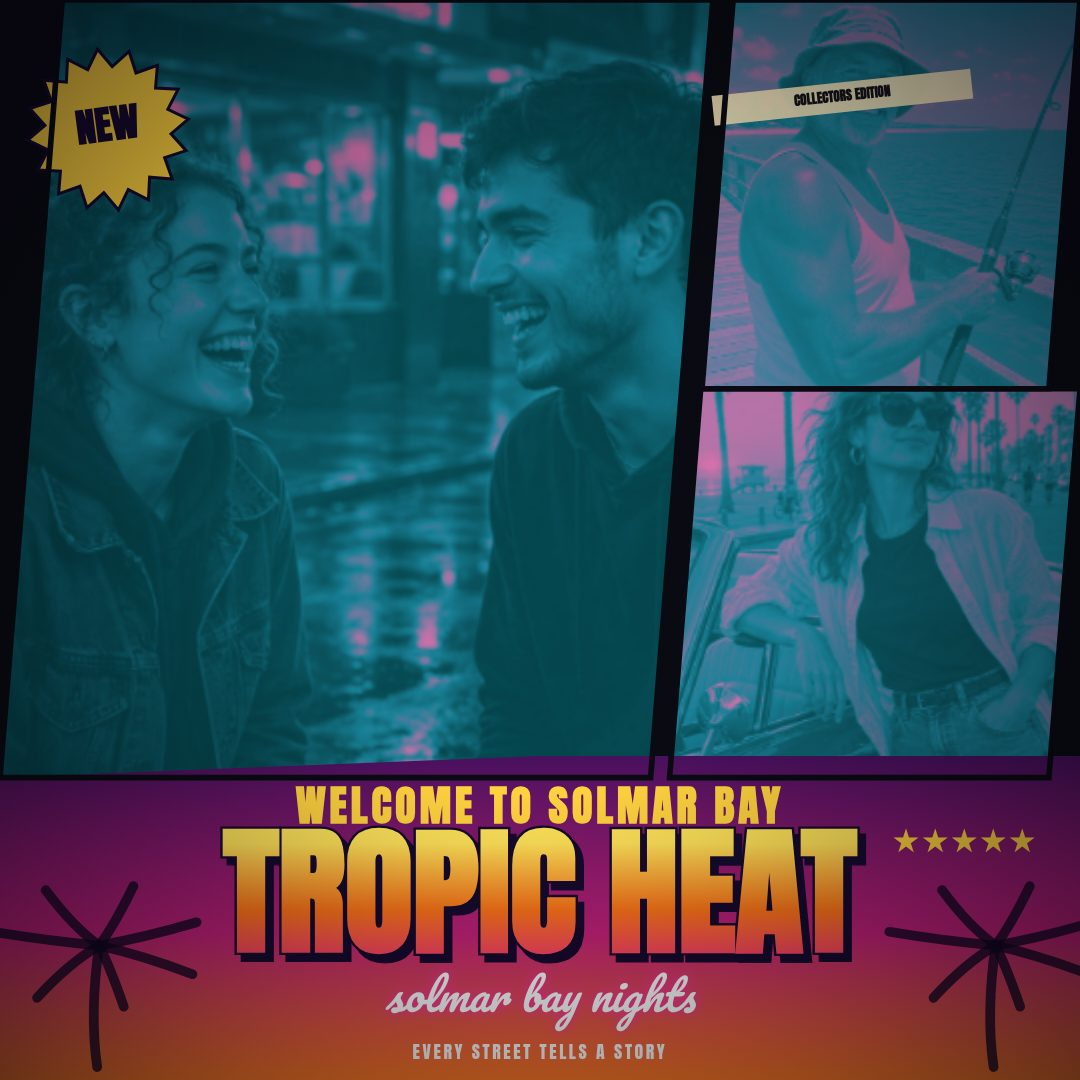
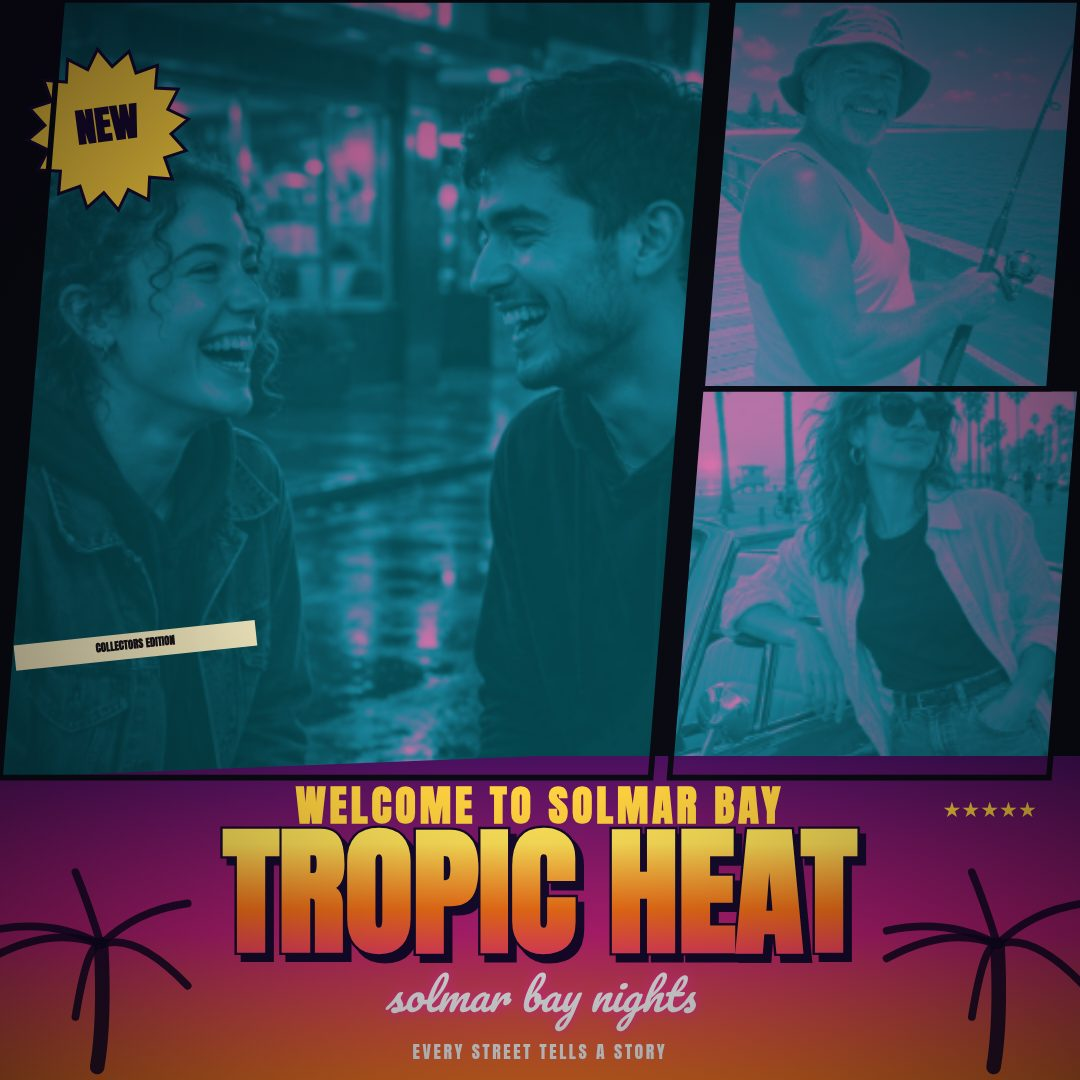
v1.1: README badges, font NOTICE, cover polish (face crops, palms, stickers)

diff --git a/app/src/render.js b/app/src/render.js
@@ -6,7 +6,7 @@ const PALETTES = {
 };
 const rects = {
   keyart:[[0,0,.58,.62],[.58,0,.42,.31],[.58,.31,.42,.31],[0,.62,.193,.38],[.193,.62,.193,.38],[.386,.62,.194,.38],[.58,.62,.42,.38]],
-  band:[[0,0,.62,.68],[.62,0,.19,.68],[.81,0,.19,.68],[0,.68,1,.32]],
+  band:[[0,0,.52,.68],[.52,0,.24,.68],[.76,0,.24,.68],[0,.68,1,.32]],
   slash:[[0,0,.66,.72],[.65,0,.35,.36],[.62,.36,.38,.36],[0,.72,1,.28]],
   grid6:[[0,0,1/3,.5],[1/3,0,1/3,.5],[2/3,0,1/3,.5],[0,.5,1/3,.5],[1/3,.5,1/3,.5],[2/3,.5,1/3,.5]],
   trio:[[0,0,1/3,1],[1/3,0,1/3,1],[2/3,0,1/3,1]], full:[[0,0,1,1]],
@@ -37,7 +37,8 @@ function drawPhoto(ctx,W,H,r,panel,index,state,layout) {
   const img=photoSource(panel.photo||PHOTOS[index%4]);
   if(img.complete&&img.naturalWidth) {
     const scale=Math.max(w/img.width,h/img.height)*(panel.zoom||1), dw=img.width*scale, dh=img.height*scale;
-    const cx=x+(w-dw)/2+(panel.x||0)*w, cy=y+(h-dh)/2+(panel.y||0)*h;
+    const fx=clamp(panel.fx??.5,0,1), fy=clamp(panel.fy??.5,0,1);
+    const cx=x+(w-dw)*fx+(panel.x||0)*w, cy=y+(h-dh)*fy+(panel.y||0)*h;
     const quality=.5,off=document.createElement('canvas');off.width=Math.max(1,Math.round(w*quality));off.height=Math.max(1,Math.round(h*quality));
     const oc=off.getContext('2d',{willReadFrequently:true});oc.drawImage(img,(cx-x)*quality,(cy-y)*quality,dw*quality,dh*quality);
     try {
@@ -59,9 +60,13 @@ function drawPhoto(ctx,W,H,r,panel,index,state,layout) {
   ctx.fillStyle=tint;ctx.fillRect(x,y,w,h);ctx.restore();
 }
 function palm(ctx,x,y,s) {
-  ctx.save();ctx.translate(x,y);ctx.scale(s,s);ctx.strokeStyle='rgba(17,8,35,.8)';ctx.lineWidth=10;ctx.lineCap='round';
-  ctx.beginPath();ctx.moveTo(0,0);ctx.quadraticCurveTo(-8,-55,2,-125);ctx.stroke();
-  for(let i=0;i<7;i++){const a=-Math.PI*.93+i*Math.PI*.27;ctx.beginPath();ctx.moveTo(2,-125);ctx.quadraticCurveTo(Math.cos(a)*52,-125+Math.sin(a)*22,Math.cos(a)*110,-125+Math.sin(a)*65);ctx.stroke();}
+  ctx.save();ctx.translate(x,y);ctx.scale(s,s);ctx.strokeStyle='rgba(17,8,35,.88)';ctx.lineCap='round';ctx.lineJoin='round';
+  ctx.lineWidth=15;ctx.beginPath();ctx.moveTo(0,0);ctx.quadraticCurveTo(8,-48,4,-126);ctx.stroke();
+  ctx.lineWidth=8;
+  for(let i=0;i<6;i++){
+    const a=-Math.PI*.94+i*Math.PI*.376, ex=Math.cos(a)*112, ey=-126+Math.sin(a)*76;
+    ctx.beginPath();ctx.moveTo(4,-126);ctx.quadraticCurveTo(Math.cos(a)*48,-150+Math.sin(a)*20,ex,ey);ctx.stroke();
+  }
   ctx.restore();
 }
 function titleBlock(ctx,x,y,w,h,state) {
@@ -69,7 +74,8 @@ function titleBlock(ctx,x,y,w,h,state) {
   ctx.fillStyle=g;ctx.fillRect(x,y,w,h);palm(ctx,x+w*.09,y+h*.96,Math.min(w,h)*.003);palm(ctx,x+w*.92,y+h*.96,Math.min(w,h)*.003);
   const pad=w*.08, maxW=w*.84;ctx.textAlign='center';ctx.textBaseline='middle';
   ctx.font=`bold ${Math.max(14,h*.13)}px Anton, Impact, sans-serif`;ctx.fillStyle='#ffd23f';ctx.letterSpacing=`${Math.max(1,h*.012)}px`;
-  ctx.fillText((state.kicker||'WELCOME TO SOLMAR BAY').toUpperCase(),x+w/2,y+h*.17,maxW);
+  const starCount=Math.max(0,Math.min(5,state.stars?.n||5)), starText='★'.repeat(starCount)+'☆'.repeat(5-starCount), starSize=Math.min(h*.065,w*.04), starWidth=starSize*5*.72;
+  ctx.fillText((state.kicker||'WELCOME TO SOLMAR BAY').toUpperCase(),x+w/2,y+h*.17,state.stars?.on?Math.max(1,maxW-starWidth-pad*.7):maxW);
   let title=(state.title||'TROPIC HEAT').toUpperCase(), fs=h*.43;ctx.letterSpacing='0px';
   ctx.font=`bold ${fs}px Anton, Impact, sans-serif`;
   while(ctx.measureText(title).width>maxW&&fs>10){fs*=.94;ctx.font=`bold ${fs}px Anton, Impact, sans-serif`;}
@@ -80,14 +86,14 @@ function titleBlock(ctx,x,y,w,h,state) {
   ctx.fillText(state.script||'solmar bay nights',x+w/2,y+h*.76,maxW);ctx.shadowBlur=0;
   ctx.font=`${Math.max(9,h*.055)}px Anton, sans-serif`;ctx.fillStyle='#fff';ctx.letterSpacing=`${Math.max(1,h*.008)}px`;
   ctx.fillText((state.tagline||'EVERY STREET TELLS A STORY').toUpperCase(),x+w/2,y+h*.92,maxW);ctx.letterSpacing='0px';
-  if(state.stars?.on){ctx.font=`${h*.1}px sans-serif`;ctx.fillStyle='#ffd23f';ctx.textAlign='right';ctx.fillText('★'.repeat(Math.max(0,Math.min(5,state.stars.n||5)))+'☆'.repeat(5-Math.max(0,Math.min(5,state.stars.n||5))),x+w*.96,y+h*.27);}
+  if(state.stars?.on){ctx.font=`${starSize}px sans-serif`;ctx.fillStyle='#ffd23f';ctx.textAlign='right';ctx.textBaseline='middle';ctx.fillText(starText,x+w*.96,y+h*.17);}
 }
 function starburst(ctx,x,y,r,text) {
   ctx.save();ctx.translate(x,y);ctx.rotate(-.13);ctx.beginPath();
   for(let i=0;i<32;i++){const a=-Math.PI/2+i*Math.PI/16, rr=i%2?r*.78:r;ctx.lineTo(Math.cos(a)*rr,Math.sin(a)*rr);}ctx.closePath();ctx.fillStyle='#ffd23f';ctx.strokeStyle='#160a2e';ctx.lineWidth=3;ctx.fill();ctx.stroke();
   ctx.fillStyle='#160a2e';ctx.font=`bold ${r*.48}px Anton, sans-serif`;ctx.textAlign='center';ctx.textBaseline='middle';ctx.fillText(text||'NEW',0,0,r*1.35);ctx.restore();
 }
-function tape(ctx,x,y,w,text) {ctx.save();ctx.translate(x,y);ctx.rotate(-.105);ctx.fillStyle='rgba(255,239,194,.93)';ctx.fillRect(-w/2,-15,w,30);ctx.fillStyle='#17131a';ctx.textAlign='center';ctx.textBaseline='middle';ctx.font='bold 13px Anton, sans-serif';ctx.fillText(text||'COLLECTORS EDITION',0,0,w*.94);ctx.restore();}
+function tape(ctx,x,y,w,text) {ctx.save();ctx.translate(x,y);ctx.rotate(-Math.PI/30);const h=Math.max(22,w*.105);ctx.fillStyle='rgba(255,239,194,.93)';ctx.fillRect(-w/2,-h/2,w,h);ctx.fillStyle='#17131a';ctx.textAlign='center';ctx.textBaseline='middle';ctx.font=`bold ${Math.max(10,h*.42)}px Anton, sans-serif`;ctx.fillText(text||'COLLECTORS EDITION',0,0,w*.94);ctx.restore();}
 function skyline(ctx,x,y,w,h){ctx.fillStyle='rgba(18,8,34,.78)';ctx.beginPath();ctx.moveTo(x,y+h);for(let i=0;i<18;i++){let bx=x+w*i/18,bw=w/18;ctx.lineTo(bx,y+h);ctx.lineTo(bx,y+h*(.42+((i*17)%35)/100));ctx.lineTo(bx+bw*.7,y+h*(.42+((i*17)%35)/100));}ctx.lineTo(x+w,y+h);ctx.closePath();ctx.fill();}
 export function renderCover(ctx,W,H,state={}) {
   const layout=state.layout||'keyart', rs=rects[layout]||rects.keyart, gutter=state.gutter??10;
@@ -103,7 +109,7 @@ export function renderCover(ctx,W,H,state={}) {
   if(layout==='full'){drawPhoto(ctx,W,H,rs[0],state.panels?.[0]||{photo:'boulevard',zoom:1},0,state,layout);titleBlock(ctx,0,H*.68,W,H*.32,state);}
   if(layout==='story')titleBlock(ctx,0,H*.72,W,H*.28,state);
   if(state.badge?.on)starburst(ctx,W*.1,H*.12,Math.min(W,H)*.075,state.badge.text);
-  if(state.tape?.on)tape(ctx,W*.78,H*.09,Math.min(W*.34,260),state.tape.text);
+  if(state.tape?.on){const roof=layout==='band'?rs[1]:layout==='keyart'?rs[1]:rs[0];tape(ctx,(roof[0]+roof[2]*.19)*W,(roof[1]+roof[3]*.83)*H,roof[2]*W*.34,state.tape.text);}
   if(gutter>0&&layout!=='full'){
     rs.forEach((r,i)=>{if((layout==='keyart'&&i===6)||(layout==='band'&&i===3)||(layout==='slash'&&i===3)||(layout==='story'&&i===3))return;ctx.strokeStyle='#0a0a12';ctx.lineWidth=gutter*W/1920;panelPath(ctx,r[0]*W,r[1]*H,r[2]*W,r[3]*H,i,layout);ctx.stroke();});
   }

diff --git a/app/src/shots.js b/app/src/shots.js
@@ -1,12 +1,12 @@
 import { renderCover, preloadCoverPhotos } from './render.js';
 const demo={size:'wide',layout:'keyart',grade:'ink',gutter:10,grain:.10,vignette:true,
-  panels:[{photo:'boulevard',zoom:1.15,x:0,y:0},{photo:'rooftop',zoom:1},{photo:'pier',zoom:1},{photo:'neon',zoom:1},{photo:'boulevard',zoom:1.6,x:0,y:.18},{photo:'rooftop',zoom:1.8,x:0,y:0},{photo:'boulevard',zoom:1}],
+  panels:[{photo:'boulevard',zoom:1.05,fx:.50,fy:.30},{photo:'rooftop',zoom:1,fx:.42,fy:.32},{photo:'pier',zoom:1,fx:.45,fy:.30},{photo:'neon',zoom:1},{photo:'boulevard',zoom:1.6,x:0,y:.18},{photo:'rooftop',zoom:1.8,fx:.42,fy:.30},{photo:'boulevard',zoom:1}],
   kicker:'WELCOME TO SOLMAR BAY',title:'TROPIC HEAT',script:'solmar bay nights',tagline:'EVERY STREET TELLS A STORY',badge:{on:true,text:'NEW'},stars:{on:true,n:5},tape:{on:true,text:'COLLECTORS EDITION'}};
 const query=new URLSearchParams(location.search), shot=query.get('shot');
 if(['keyart','band','slash'].includes(query.get('layout')))demo.layout=query.get('layout');
 if(['ink','sunset','neon'].includes(query.get('grade')))demo.grade=query.get('grade');
 if(['wide','square','portrait'].includes(query.get('size')))demo.size=query.get('size');
-if(demo.layout==='band'){demo.grade='sunset';demo.panels=[{photo:'boulevard'},{photo:'rooftop'},{photo:'neon'}];}
+if(demo.layout==='band'){demo.grade='sunset';demo.panels=[{photo:'boulevard',zoom:1.05,fx:.50,fy:.30},{photo:'rooftop',zoom:1,fx:.42,fy:.30},{photo:'neon',zoom:1,fx:.50,fy:.35}];}
 if(demo.layout==='slash'){demo.grade='neon';demo.panels=[{photo:'neon'},{photo:'pier'},{photo:'boulevard'}];}
 window.__demoState=demo;
 if(shot==='cover'){

diff --git a/README.md b/README.md
@@ -1,3 +1,7 @@
+[![make.fun · gta6-cover-art-01](https://make.fun/badge/gta6-cover-art-01.svg)](https://make.fun/bounty/gta6-cover-art-01?utm_source=github&utm_medium=readme&utm_campaign=gta6-cover-art-01)
+[![rank](https://make.fun/badge/gta6-cover-art-01/aahcoba8-maker/makefun-gta6-cover-art/rank.svg)](https://make.fun/bounty/gta6-cover-art-01/leaderboard?utm_source=github&utm_medium=readme&utm_campaign=gta6-cover-art-01)
+[![reward](https://make.fun/badge/gta6-cover-art-01/aahcoba8-maker/makefun-gta6-cover-art/reward.svg)](https://make.fun/bounty/gta6-cover-art-01?utm_source=github&utm_medium=readme&utm_campaign=gta6-cover-art-01)
+
 # TROPIC HEAT Cover Studio
 
 An offline, single-page cover editor that turns local photos and captions into original sunset and neon poster art.
@@ -20,4 +24,4 @@ Open [http://localhost:8080](http://localhost:8080) in a desktop browser. The ap
 
 ## Licenses
 
-The app code is MIT licensed. Anton and Pacifico fonts are licensed under SIL Open Font License 1.1; their license texts are in `app/fonts/`. The included sample photos are free to use.
+The app code is MIT licensed. Anton and Pacifico fonts are licensed under SIL Open Font License 1.1 (see `app/fonts/NOTICE.md`). The included sample photos are free to use.

diff --git a/app/fonts/NOTICE.md b/app/fonts/NOTICE.md
@@ -1,0 +1,7 @@
+# Font notice
+
+**Anton** — Copyright 2020 The Anton Project Authors (github.com/googlefonts/AntonFont).
+
+**Pacifico** — Copyright 2018 The Pacifico Project Authors (github.com/googlefonts/Pacifico).
+
+Both fonts are licensed under the SIL Open Font License 1.1 (openfontlicense.org). The fonts are used as-is as local application files.
